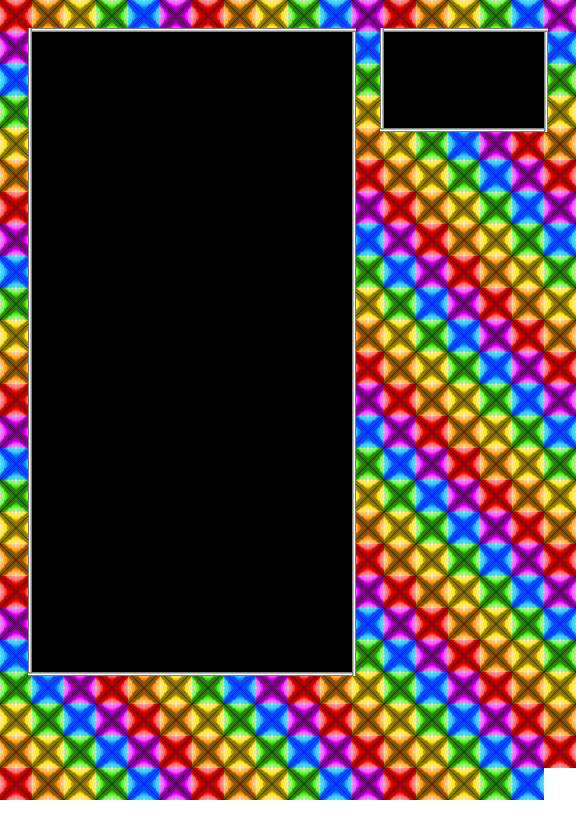
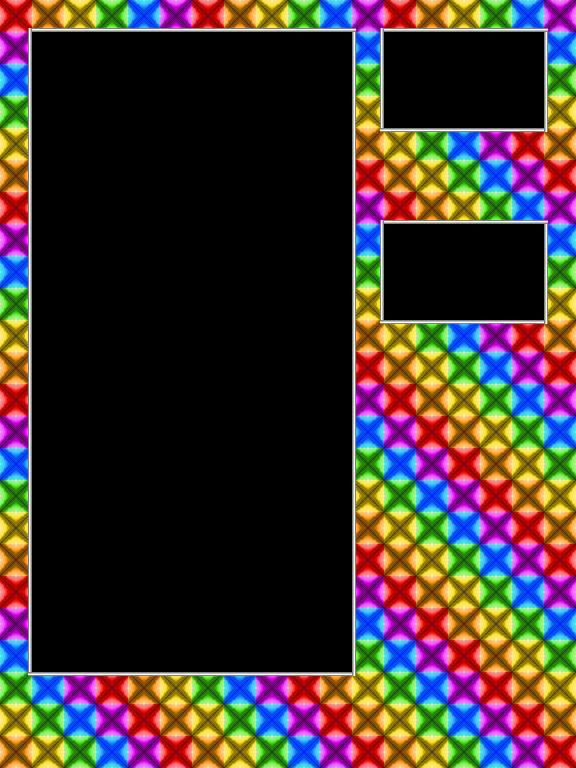
Playing with game states

diff --git a/tetris.py b/tetris.py
@@ -11,7 +11,7 @@ import time
 from pygame.locals import *
 from random import randrange
 
-images = ['Images\\red.JPG','Images\\orange.JPG','Images\\yellow.JPG','Images\\green.JPG','Images\\light_blue.JPG','Images\\blue.JPG','Images\\purple.JPG','Images\\MainMenu.JPG','Images\\Game.JPG']
+images = ['Images\\red.JPG','Images\\orange.JPG','Images\\yellow.JPG','Images\\green.JPG','Images\\light_blue.JPG','Images\\blue.JPG','Images\\purple.JPG','Images\\MainMenu.JPG','Images\\Game.JPG','Images\\GamePaused.JPG','Images\\GameOver.JPG','Images\\Controls.JPG','Images\\HighScores.JPG']
 
 #Block type
 RED = 0
@@ -24,12 +24,15 @@ PURPLE = 6
 #Game States
 MAIN_MENU = 7
 GAME = 8
-CONTROLS = 9
-HIGH_SCORES = 10
+CONTROLS = 11
+HIGH_SCORES = 12
+
+#Others
+GAME_PAUSED = 9
+GAME_OVER = 10
 
 # IN GAME VARIABLES
-# Colors
-DROP_DELAY = 0.3
+DROP_DELAY = 0.6
 KEY_DELAY = 0.1
 DOWN = 0
 LEFT = 1
@@ -52,6 +55,7 @@ shapes = [[[-1,0,0],[0,0,0],[0,-1,0],[1,0,0]], #T
 
 GRID_X = 10
 GRID_Y = 20
+
 
 #Complete
 def loadImages():
@@ -100,7 +104,6 @@ def drawGrid(screen, images, grid):
 #Complete
 def rotate(shape):
 	for block in shape: block[0],block[1] = block[1],-block[0]
-	print shape
 
 #Complete
 def canRotate(shape, grid):
@@ -134,9 +137,12 @@ def nextShape(Shapes):
 
 
 def updateGrid(grid, shape,score):
+    isgameover = False
     for block in shape:
             coord = list(block)
             coord[0],coord[1] = coord[0]+X_[0],coord[1]+Y_[0]
+            if coord[1] < 0:
+                isgameover = True
             grid.append(coord)
     blockCount = [0]*GRID_Y #Creates list of zeros for all rows in grid
     for gblock in grid: #For every block in the grid it will add 1 to the counter
@@ -168,9 +174,10 @@ def updateGrid(grid, shape,score):
         score += 375
     elif numRows == 4:
         score += 550
-    
+    if isgameover:
+        grid.append(isgameover)
     #print 'Score:', score
-    return grid,score
+    return grid,[score,numRows]
 
 #Complete
 def moveLeft(X_):
@@ -211,11 +218,14 @@ def canMove(shape, grid, direction, X_, Y_):
 
 class TetrisGameState:
     def __init__(self):
+        pygame.display.set_icon(pygame.image.load("Images\\img.JPG"))
         self.screen = pygame.display.set_mode((576,768))
         self.width = 576; self.height = 768
         self.fullscreen = False
         self.clock = pygame.time.Clock()
         pygame.display.set_caption("TETRIS!")
+        
+    
 
     def toggleFullscreen(self):
         modes = pygame.display.list_modes()
@@ -229,8 +239,7 @@ class TetrisGameState:
         self.height = self.screen.get_height()
 
 def main():
-    pygame.display.init()
-    pygame.display.set_icon(pygame.image.load("Images\\img.JPG"))
+    pygame.font.init()
     tgs = TetrisGameState()
     tgs.fullscreen = True
     tgs.toggleFullscreen()
@@ -240,19 +249,27 @@ def main():
     music = pygame.mixer.music
     music.load('Tetris.mp3')
     music.play(-1)
+    ###
+    music.stop()
+    ###
     
     #Load images to be used in game
     images = loadImages()
     
 #    gameState = MAIN_MENU
-    gameState = GAME
+    gameState = MAIN_MENU
     # In Game variables
     currentShapes = [list(shapes[randrange(0,len(shapes))]),list(shapes[randrange(0,len(shapes))])] #[current shape, next shape]
     game_grid = []
     nextFall = time.time()
     keyDelay = time.time() # used to limit the speed of keys pressed.
-    fasterTime = 0
     score = 0
+    numRows = 0
+    gameover = False
+    isPaused = False
+    fromGame = False
+    font = pygame.font.SysFont('geniso', 16, True, False)
+    font2 = pygame.font.SysFont('geniso', 16, True, False)
     
     while running:
         tgs.screen.fill((100,0,0))
@@ -266,26 +283,36 @@ def main():
                     return
                 if event.type == pygame.MOUSEBUTTONDOWN:
                     mousePos = pygame.mouse.get_pos()
-                    if mousePos[0] > 0 and mousePos[0] <= 32 and mousePos[1] > 0 and mousePos[1] <= 32: 
+                    if mousePos[0] > 0 and mousePos[0] <= 32 and mousePos[1] > 0 and mousePos[1] <= 32:
                         print "HEY YOU! YEAH YOU!"
                         print 'Main Menu Screen'
                     #If click lies on 'Play', gameState == GAME
-                    elif mousePos[0] > 32 and mousePos[0] <= 64 and mousePos[1] > 0 and mousePos[1] <= 32: 
+                    elif mousePos[0] > 32 and mousePos[0] <= 32+32*8 and mousePos[1] > 32*11 and mousePos[1] <= 20*32: 
                         gameState = GAME
-                        print 'gameButton pressed'
+                        currentShapes = [list(shapes[randrange(0,len(shapes))]),list(shapes[randrange(0,len(shapes))])]
+                        game_grid = []
+                        fasterTime = 0
+                        score = 0
+                        numRows = 0
+                        X_[0] = 5
+                        Y_[0] = -2
+                        gameover = False
+                        print 'Play pressed'
                         
                     #If click lies on 'Controls', gameState == CONTROLS
-                    elif mousePos[0] > 10 and mousePos[0] <= 20 and mousePos[1] > 20 and mousePos[1] <= 30: 
+                    elif mousePos[0] > 320 and mousePos[0] <= 17*32 and mousePos[1] > 32*11 and mousePos[1] <= 32*15: 
                         gameState = CONTROLS
 
                     #If click lies on 'High Scores', gameState == HIGH_SCORES
-                    elif mousePos[0] > 10 and mousePos[0] <= 20 and mousePos[1] > 10 and mousePos[1] <= 20: 
+                    elif mousePos[0] > 320 and mousePos[0] <= 17*32 and mousePos[1] > 32*16 and mousePos[1] <= 32*20: 
                         gameState == HIGH_SCORES
                         
             tgs.screen.blit(images[MAIN_MENU],(0,0))
 
         #----------------IN GAME-----------------#
-        elif (gameState == GAME):
+                
+        
+        if (gameState == GAME):
             for event in pygame.event.get():
                 if event.type == pygame.QUIT:
                     running = False
@@ -293,57 +320,94 @@ def main():
                     return
                 if event.type == pygame.MOUSEBUTTONDOWN:
                     mousePos = pygame.mouse.get_pos()
-                    if mousePos[0] > 10 and mousePos[0] <= 20 and mousePos[1] > 10 and mousePos[1] <= 20 and gamePused: 
+                    print mousePos
+#Resume button
+                    if mousePos[0] > 223 and mousePos[0] <= 349 and mousePos[1] > 341 and mousePos[1] <= 379 and isPaused: 
+                        isPaused = False
+# Controls button
+                    elif mousePos[0] > 231 and mousePos[0] <= 335 and mousePos[1] > 393 and mousePos[1] <= 429 and isPaused: 
                         gameState = CONTROLS
                         fromGame = True
-                    if mousePos[0] > 10 and mousePos[0] <= 20 and mousePos[1] > 10 and mousePos[1] <= 20 and gamePused: 
-                        gameState = MAIN__MENU
-                        fromGame = False
+# High Scores button
+                    elif mousePos[0] > 223 and mousePos[0] <= 341 and mousePos[1] > 445 and mousePos[1] <= 477 and isPaused: 
+                        gameState = MAIN_MENU
+                        isPaused = False
 
             # Get keys pressed
             keys = pygame.key.get_pressed()
             #limit movement left, right and rotation to KEY_DELAY (seconds)
             if(keyDelay - time.time() < 0):
-                if keys[K_UP] == True:
-                    canRotateL = canRotate(currentShapes[0], game_grid)
-                    if canRotateL:
-                        rotate(currentShapes[0])
+# P - Pause
+                if keys[K_p] == True and not gameover:
+                    isPaused = not isPaused
+                    keyDelay = time.time() + KEY_DELAY
+                if not isPaused and not gameover:
+                    if keys[K_UP] == True:
+                        canRotateL = canRotate(currentShapes[0], game_grid)
+                        if canRotateL:
+                            rotate(currentShapes[0])
+                            keyDelay = time.time() + KEY_DELAY
+# LEFT
+                    elif keys[K_LEFT] == True and canMove(currentShapes[0], game_grid, LEFT, X_, Y_):
+                        moveLeft(X_)
                         keyDelay = time.time() + KEY_DELAY
-                elif keys[K_LEFT] == True and canMove(currentShapes[0], game_grid, LEFT, X_, Y_):
-                    moveLeft(X_)
-                    keyDelay = time.time() + KEY_DELAY
-                elif keys[K_RIGHT] == True and canMove(currentShapes[0], game_grid, RIGHT, X_, Y_) :
-                    moveRight(X_)
-                    keyDelay = time.time() + KEY_DELAY
-                elif keys[K_DOWN] == True:
+# RIGHT
+                    elif keys[K_RIGHT] == True and canMove(currentShapes[0], game_grid, RIGHT, X_, Y_) :
+                        moveRight(X_)
+                        keyDelay = time.time() + KEY_DELAY
+# DOWN
+                    elif keys[K_DOWN] == True:
 #                    print 'DROPPING'
-                    drop(currentShapes[0],game_grid,X_,Y_)
+                        drop(currentShapes[0],game_grid,X_,Y_)
 #                    print 'DROPPED'
-                    game_grid,score = updateGrid(game_grid, currentShapes[0],score)
-                    currentShapes = nextShape(currentShapes)
-                    keyDelay = time.time() + KEY_DELAY
-                elif keys[K_SPACE] == True:
-                    if canMove(currentShapes[0], game_grid, DOWN, X_, Y_): moveDown(Y_)
-                    keyDelay = time.time() + KEY_DELAY
-
-            # Update gravity
-
-            if (nextFall - time.time() < 0):
-                nextFall = time.time() + DROP_DELAY + fasterTime;
-                if canMove(currentShapes[0],game_grid,DOWN,X_,Y_): moveDown(Y_)
-                else:
-                        grid,score = updateGrid(game_grid, currentShapes[0],score)
+                        game_grid,r = updateGrid(game_grid, currentShapes[0],score)
+                        score = r[0]
+                        numRows += r[1]
+                        if type(game_grid[len(game_grid)-1]) == bool:
+                            gameover = True
                         currentShapes = nextShape(currentShapes)
-        
-            #print 'Playing'
-            tgs.screen.blit(images[GAME],(0,0))
-            # Draw shapes.
-            drawShape(tgs.screen, images, currentShapes[0])
-            drawNextShape(tgs.screen, images, currentShapes[1])
-            # Draw grid.
-            drawGrid(tgs.screen, images, game_grid)
-        
-            tgs.screen.blit(images[GAME],(0,0),(0,0,576,32))
+                        keyDelay = time.time() + KEY_DELAY
+                        nextFall = time.time() + DROP_DELAY + fasterTime;
+                        
+# SPACE
+                    elif keys[K_SPACE] == True:
+                        if canMove(currentShapes[0], game_grid, DOWN, X_, Y_): moveDown(Y_)
+                        keyDelay = time.time() + KEY_DELAY
+
+            if not isPaused and not gameover:
+# Update gravity
+                if (nextFall - time.time() < 0):
+                    nextFall = time.time() + DROP_DELAY**((numRows+2)/2.0) + 0.08;
+                    print DROP_DELAY**((numRows+2)/2.0) + 0.08
+                    if canMove(currentShapes[0],game_grid,DOWN,X_,Y_): moveDown(Y_)
+                    else:
+                            game_grid,r = updateGrid(game_grid, currentShapes[0],score)
+                            score = r[0]
+                            numRows += r[1]
+                            if type(game_grid[len(game_grid)-1]) == bool:
+                                gameover = True
+                            currentShapes = nextShape(currentShapes)
+            
+                #print 'Playing'
+                tgs.screen.blit(images[GAME],(0,0))
+                # Draw shapes.
+                drawShape(tgs.screen, images, currentShapes[0])
+                drawNextShape(tgs.screen, images, currentShapes[1])
+                tgs.screen.blit(images[GAME],(0,0),(0,0,576,32))
+                tgs.screen.blit(font.render("SCORE:",1,(255,255,255),(0,0,0)),(395,276-32))
+                tgs.screen.blit(font.render(str(score),1,(255,255,255),(0,0,0)),(395+60,276-32))
+
+                tgs.screen.blit(font.render("ROWS:",1,(255,255,255),(0,0,0)),(395,325-32))
+                tgs.screen.blit(font.render(str(numRows),1,(255,255,255),(0,0,0)),(395+60,325-32))
+
+            
+            if not isPaused and not gameover:
+                # Draw grid.
+                drawGrid(tgs.screen, images, game_grid)
+            elif isPaused:
+                tgs.screen.blit(images[GAME_PAUSED],(0,0))
+            else:
+                tgs.screen.blit(images[GAME_OVER],(0,0))
             
         #------------------IN CONTROLS--------------#
         elif (gameState == CONTROLS):
@@ -352,8 +416,30 @@ def main():
                     running = False
                     pygame.quit()
                     return
-            print 'Controls Screen'
-
+                if event.type == pygame.MOUSEBUTTONDOWN:
+                    mousePos = pygame.mouse.get_pos()
+                    print mousePos
+                    if mousePos[0] > 77 and mousePos[0] <= 161 and mousePos[1] > 650 and mousePos[1] <= 686:
+                        gameState = GAME
+                        if not fromGame:
+                            currentShapes = [list(shapes[randrange(0,len(shapes))]),list(shapes[randrange(0,len(shapes))])]
+                            game_grid = []
+                            fasterTime = 0
+                            score = 0
+                            numRows = 0
+                            X_[0] = 5
+                            Y_[0] = -2
+                        else:
+                            fromGame = False
+                            
+                    elif mousePos[0] > 357 and mousePos[0] <= 505 and mousePos[1] > 650 and mousePos[1] <= 686: 
+                        gameState = MAIN_MENU
+                        if isPaused:
+                            isPaused = False
+                        fromGame = False
+            #print 'Controls Screen'
+            tgs.screen.blit(images[CONTROLS],(0,0))
+            
         #----------------IN HIGH SCORES-------------#
         elif (gameState == HIGH_SCORES) :
             for event in pygame.event.get():
@@ -361,6 +447,9 @@ def main():
                     running = False
                     pygame.quit()
                     return
+                if event.type == pygame.MOUSEBUTTONDOWN:
+                    mousePos = pygame.mouse.get_pos()
+                    print mousePos
             print 'High Scores Screen'
 
         
